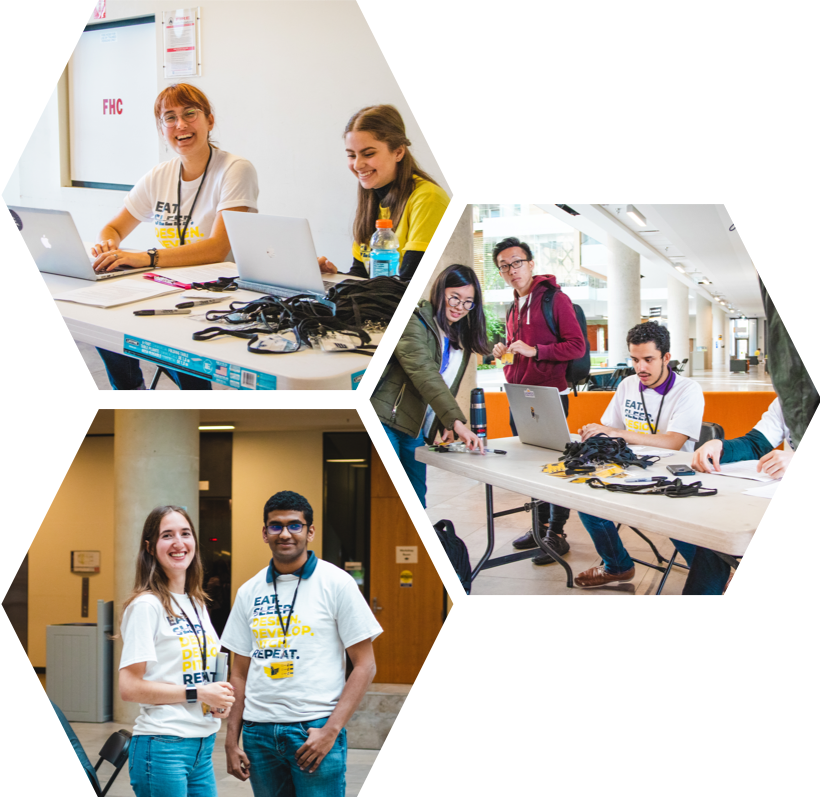
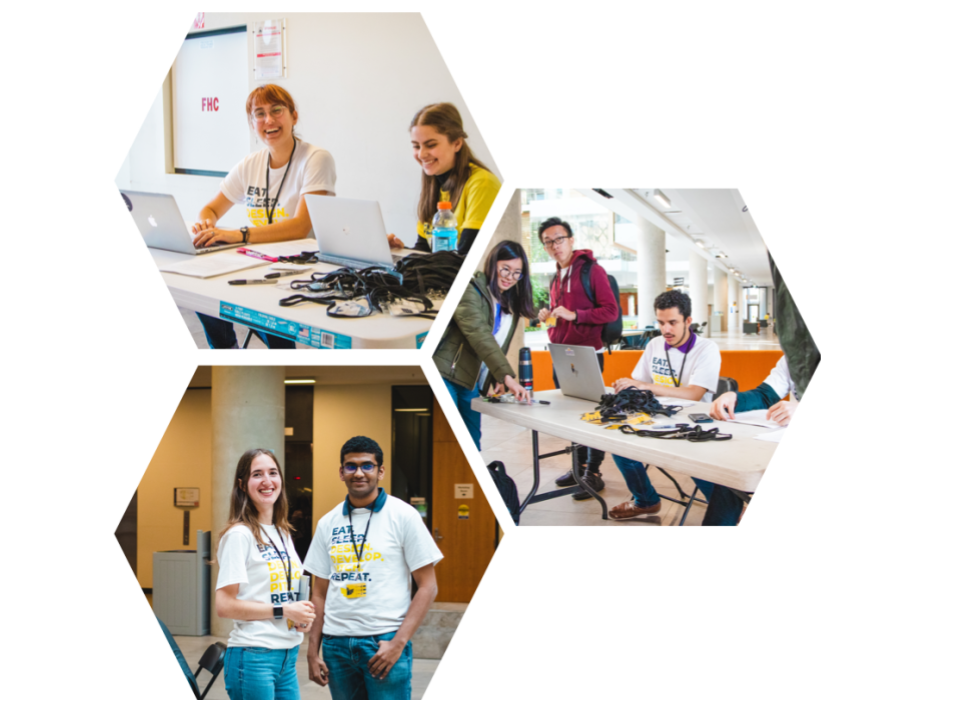
New Pictures with Borders

diff --git a/src/views/WebsitePage2021/index.js b/src/views/WebsitePage2021/index.js
@@ -67,8 +67,8 @@ export default class WebsitePage extends Component {
                                         <h1 className={styles.h1}>The</h1>
                                         <h1 className={styles.h1}>Golden</h1>
                                         <h1 className={styles.h1}>Hack</h1>
-                                        <h1 className={styles.h1}>3.0</h1>
-                                        <h4>October 2-3, 2021</h4>
+                                        <h1 className={styles.h1}>5.0</h1>
+                                        <h4>October 2-3, 2023</h4>
                                         <h4>Wilfrid Laurier University</h4>
                                     </Col>
                                     <Col md className={styles.flexCenter}>
@@ -95,7 +95,7 @@ export default class WebsitePage extends Component {
                             <Col lg>
                                 <h2 className={styles.h2}>Take on the Challenge!</h2>
                                 <p className={styles.white}>Unlock the best of both the tech and business worlds.</p>
-                                <p className={styles.white}>The GoldenHack 3.0: Oct 2-3, 2021.</p>
+                                <p className={styles.white}>The GoldenHack 5.0: Oct 2-3, 2023.</p>
                             </Col>
                         </Row>
                     </Container>
